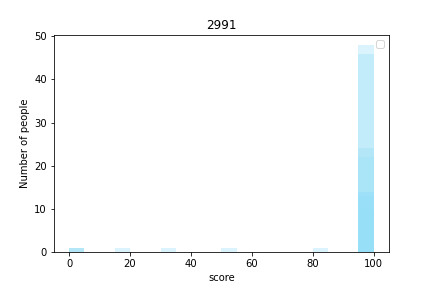
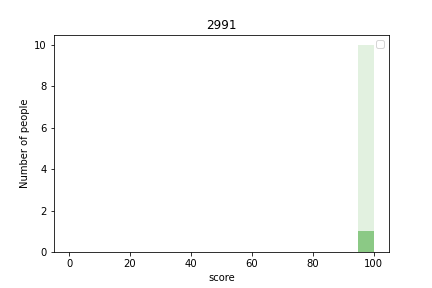
feat: addm1m5

diff --git a/m1m5.py b/m1m5.py
@@ -1,0 +1,76 @@
+import json
+import urllib.request,urllib.parse
+import os
+import zipfile
+import pandas as pd
+import csv
+import time
+import lizard
+from radon.raw import analyze
+path = 'test_data.json'
+f = open(path,encoding='utf-8')
+res = f.read()
+data = json.loads(res)
+sample=[]
+case=[]
+with open("m1m5.json",'rb') as f:
+    data1 = json.load(f)
+f.close()
+for item in data:
+   sample.append(item)
+for i in range(len(sample)):
+   for item in data[sample[i]]['cases']:
+       case.append(item['case_id'])
+case = list(set(case))
+case.sort()
+cyCpl = []
+number = 0
+f.close()
+z = zipfile.ZipFile('answers.zip')
+for item in case:
+    isF = False
+    for user in data:
+        cases = data[user]['cases']
+        for oneCase in cases:
+            if oneCase["case_id"] == item:
+                z.extract('answers/'+item+'.py')
+                listA = []
+                complexity = 0
+                lloc = 0
+                try:
+                    info = lizard.analyze_file('answers/'+item+'.py')
+                    mydict = info.__dict__
+                    lloc = len(mydict["function_list"])
+                    for i in range(len(mydict["function_list"])):
+                        listA.append(info.function_list[i].__dict__)
+                except BaseException:
+                    lloc = data1[item]['M5']
+                    complexity = data1[item]['M1']
+                    print("读取错误")
+                if(data1[item]['M1']!=0 and complexity==0):
+                    complexity=data1[item]['M1']
+                listC = []
+                f.close()
+                if len(listA) == 0:
+                    listC.append(0)
+                else:
+                   for oneItem in listA:
+                       listC.append(int(oneItem['cyclomatic_complexity']))
+                print(max(listC),end='')
+                print(" ",end='')
+                print(lloc)
+                cyCpl.append([item, max(listC), lloc])
+                isF = True
+                number+=1
+                break
+        if isF:
+            break
+    if(number == 30):
+        time.sleep(2)
+        number = 0
+print(cyCpl)
+with open("softwareMatirx.csv", 'a+',newline='') as dstfile:
+    writer = csv.writer(dstfile)
+    writer.writerows(cyCpl)  # 批量写入
+dstfile.close()
+

diff --git a/distributionOfScore.py b/distributionOfScore.py
@@ -22,15 +22,14 @@ case.sort()
 count=[]
 for item in case:
     list1=[]
+    curCase = {}
     for i in range(len(sample)):
         for item1 in data[sample[i]]['cases']:
             if(item1['case_id']==item):
                 list1.append(item1['final_score'])
                 count.append(len(item1['upload_records']))
-while(len(list1)!=0):
-    for item in case:
-        cur=0
-        list1=[]
+    while(len(list1)!=0):
+        cur = 0
         for i in range(len(sample)):
             for item1 in data[sample[i]]['cases']:
                 if(item1['case_id']==item):
@@ -39,7 +38,7 @@ while(len(list1)!=0):
                         count[cur]-=1
                     cur+=1
         list1.sort()
-        plt.hist(list1,group,color='#97DFF7',alpha=0.35,histtype='bar')
+        plt.hist(list1,group,color='#6FBD67',alpha=0.2,histtype='bar')
     plt.legend()
     plt.xlabel('score')
     plt.ylabel('Number of people')    
